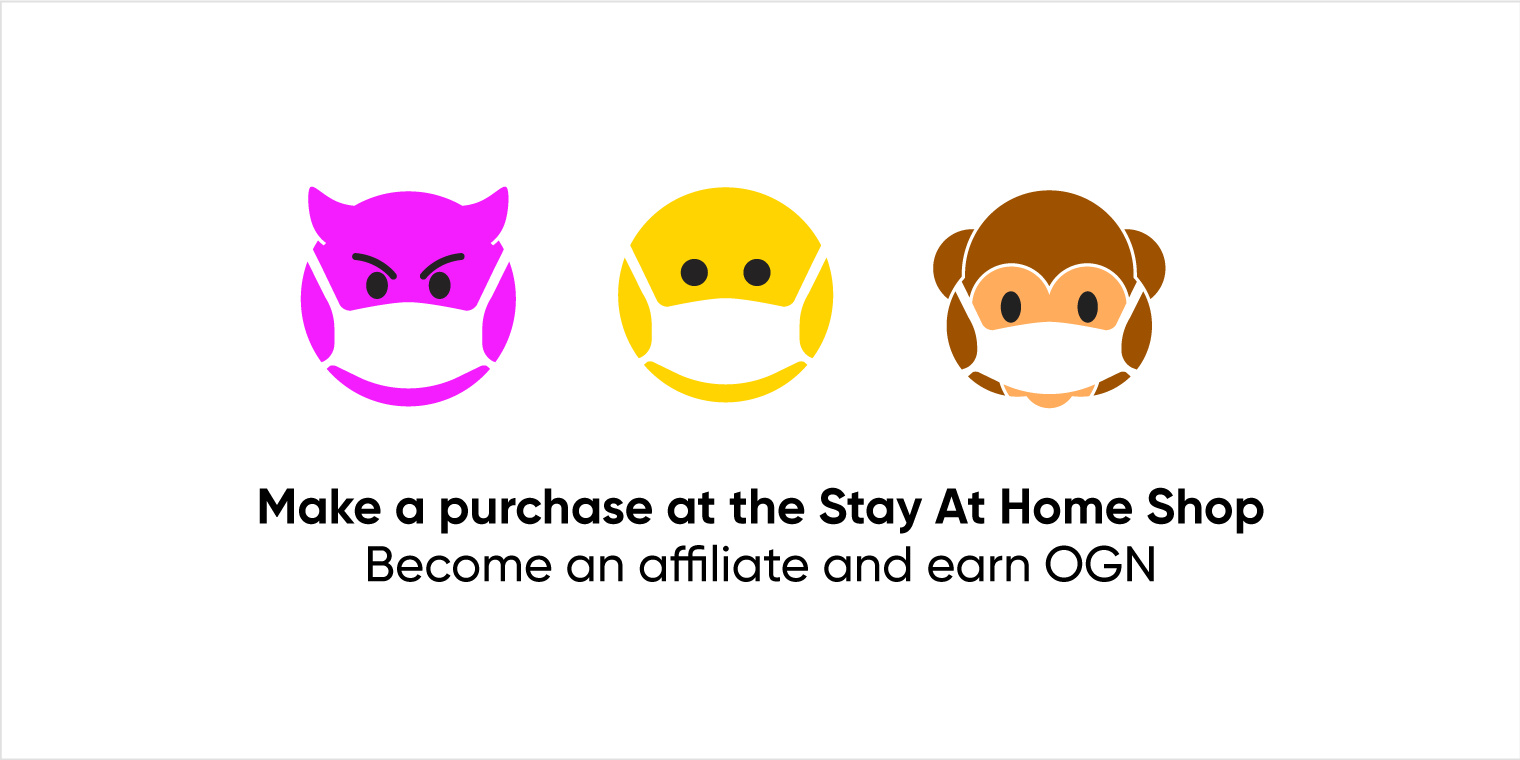
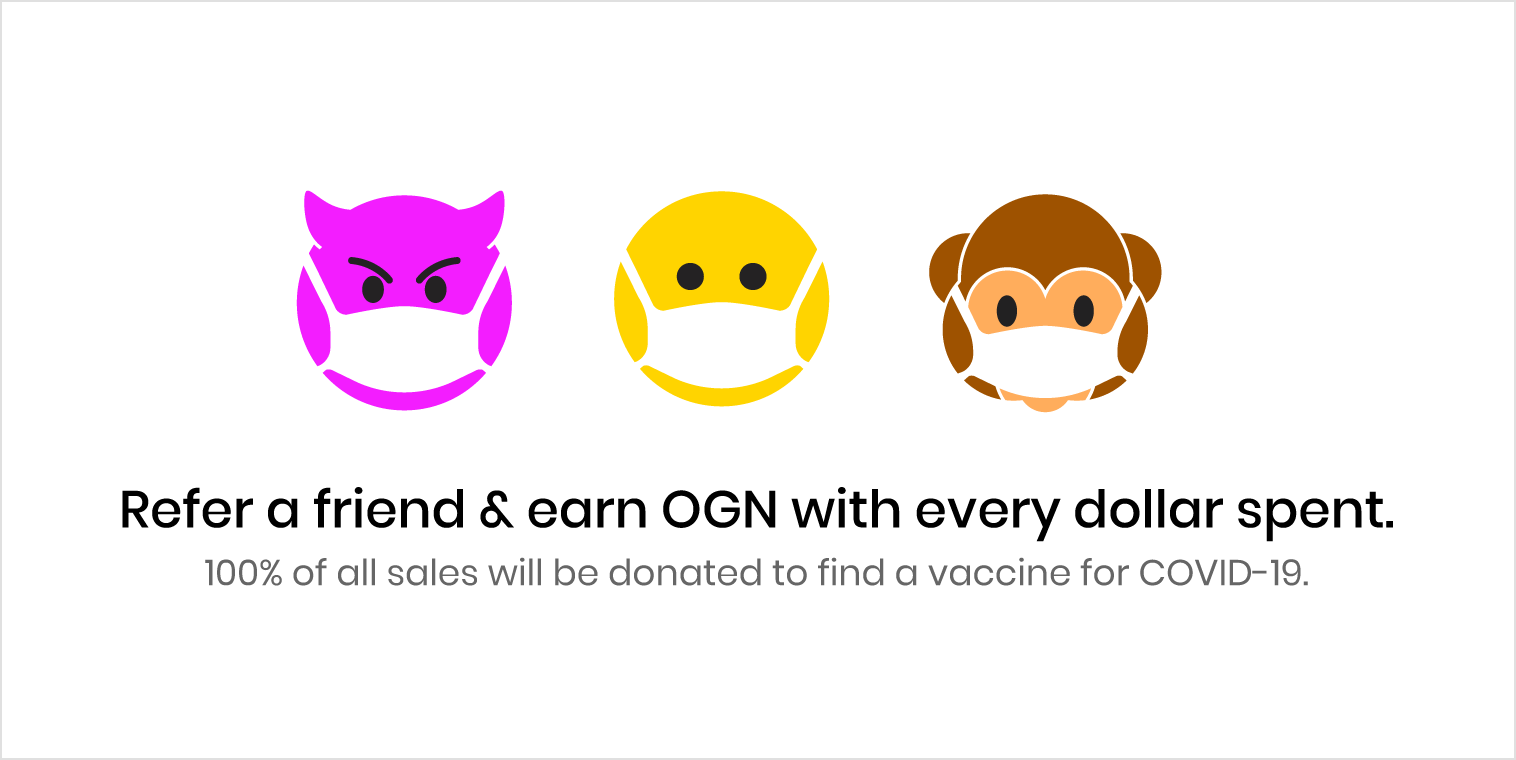
April reward tweaks

diff --git a/infra/growth/src/scripts/manageCampaign.js b/infra/growth/src/scripts/manageCampaign.js
@@ -366,7 +366,7 @@ async function createApr2020ProdCampaign() {
     nameKey: 'growth.apr2020.name',
     shortNameKey: 'growth.apr2020.short_name',
     rules: JSON.stringify(apr2020Config),
-    startDate: Date.parse('April 1, 2020, 00:00 UTC'),
+    startDate: Date.parse('April 3, 2020, 17:00 UTC'),
     endDate: Date.parse('May 1, 2020, 00:00 UTC'),
     distributionDate: Date.parse('May 1, 2020, 00:00 UTC'),
     cap: tokenToNaturalUnits(0), // Set cap to 0 token

diff --git a/dapps/marketplace/src/pages/growth/Campaigns.js b/dapps/marketplace/src/pages/growth/Campaigns.js
@@ -651,7 +651,6 @@ require('react-styl')(`
       text-align: center
     .april-campaign-box
       cursor: pointer
-      background-color: #f3f7f9
       margin-top: 30px
       position: relative
       .image-cta